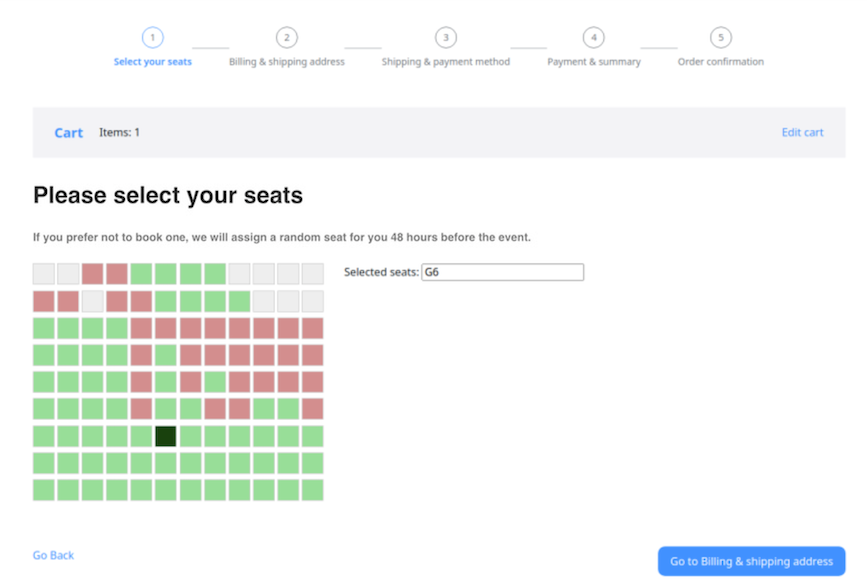
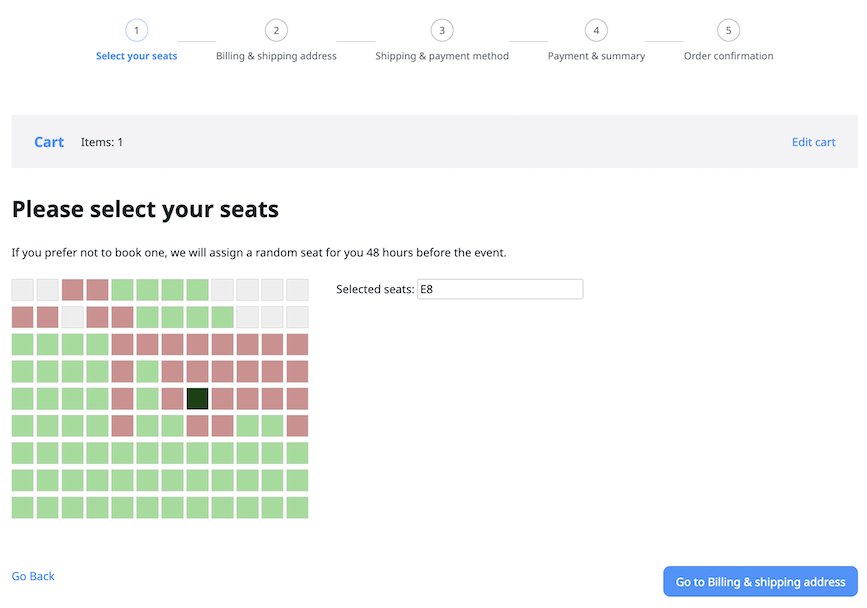
Add fixes to single page scenario

diff --git a/code_samples/front/shop/checkout/src/Form/Type/SinglePageCheckoutType.php b/code_samples/front/shop/checkout/src/Form/Type/SinglePageCheckoutType.php
@@ -1,0 +1,76 @@
+<?php
+
+declare(strict_types=1);
+
+namespace App\Form\Type;
+
+use Ibexa\Bundle\Checkout\Form\Type\AddressType;
+use Ibexa\Bundle\Checkout\Form\Type\PaymentMethodChoiceType;
+use Ibexa\Bundle\Checkout\Form\Type\ShippingMethodChoiceType;
+use Ibexa\Contracts\Cart\Value\CartInterface;
+use Symfony\Component\Form\AbstractType;
+use Symfony\Component\Form\FormBuilderInterface;
+use Symfony\Component\OptionsResolver\OptionsResolver;
+use Symfony\Component\Validator\Constraints\NotBlank;
+
+final class SinglePageCheckoutType extends AbstractType
+{
+    public function buildForm(FormBuilderInterface $builder, array $options): void
+    {
+        $builder->add(
+            'payment_method',
+            PaymentMethodChoiceType::class,
+            [
+                'constraints' => [
+                    new NotBlank(),
+                ],
+                'label' => 'Payment Method',
+            ],
+        );
+
+        $builder->add(
+            'billing_address',
+            AddressType::class,
+            [
+                'type' => 'billing',
+                'constraints' => [
+                    new NotBlank(),
+                ],
+                'label' => 'Billing Address',
+            ]
+        );
+
+        $builder->add(
+            'shipping_method',
+            ShippingMethodChoiceType::class,
+            [
+                'cart' => $options['cart'],
+                'constraints' => [
+                    new NotBlank(),
+                ],
+                'label' => 'Shipping Method',
+            ]
+        );
+
+        $builder->add(
+            'shipping_address',
+            AddressType::class,
+            [
+                'type' => 'shipping',
+                'constraints' => [
+                    new NotBlank(),
+                ],
+                'label' => 'Shipping Address',
+            ]
+        );
+    }
+
+    public function configureOptions(OptionsResolver $resolver): void
+    {
+        $resolver->setDefaults([
+            'cart' => null,
+        ]);
+
+        $resolver->setAllowedTypes('cart', ['null', CartInterface::class]);
+    }
+}

diff --git a/code_samples/front/shop/checkout/src/Controller/SinglePageCheckout.php b/code_samples/front/shop/checkout/src/Controller/SinglePageCheckout.php
@@ -4,13 +4,13 @@ declare(strict_types=1);
 
 namespace App\Controller\Checkout;
 
-use App\Form\Type\OnePageCheckoutType;
+use App\Form\Type\SinglePageCheckoutType;
 use Ibexa\Bundle\Checkout\Controller\AbstractStepController;
 use Ibexa\Contracts\Checkout\Value\CheckoutInterface;
 use Symfony\Component\HttpFoundation\Request;
 use Symfony\Component\HttpFoundation\Response;
 
-final class OnePageCheckout extends AbstractStepController
+final class SinglePageCheckout extends AbstractStepController
 {
     public function __invoke(
         Request $request,
@@ -18,7 +18,7 @@ final class OnePageCheckout extends AbstractStepController
         string $step
     ): Response {
         $form = $this->createForm(
-            OnePageCheckoutType::class,
+            SinglePageCheckoutType::class,
             $checkout->getContext()->toArray(),
             [
                 'cart' => $this->getCart($checkout->getCartIdentifier()),

diff --git a/code_samples/front/shop/checkout/src/Form/Type/SelectSeatType.php b/code_samples/front/shop/checkout/src/Form/Type/SelectSeatType.php
@@ -1,0 +1,27 @@
+<?php
+
+declare(strict_types=1);
+
+namespace App\Form\Type;
+
+use Symfony\Component\Form\AbstractType;
+use Symfony\Component\Form\Extension\Core\Type\TextType;
+use Symfony\Component\Form\FormBuilderInterface;
+use Symfony\Component\Validator\Constraints\NotBlank;
+
+final class SelectSeatType extends AbstractType
+{
+    public function buildForm(FormBuilderInterface $builder, array $options): void
+    {
+        $builder->add(
+            'selection',
+            TextType::class,
+            [
+                'constraints' => [
+                    new NotBlank(),
+                ],
+                'label' => 'Selected seats: ',
+            ]
+        );
+    }
+}

diff --git a/docs/commerce/checkout/customize_checkout.md b/docs/commerce/checkout/customize_checkout.md
@@ -75,6 +75,14 @@ after you check whether the form is valid, use the `AbstractStepController::adva
 [[= include_file('code_samples/front/shop/checkout/src/Controller/SelectSeatStepController.php') =]]
 ```
 
+#### Create a form
+
+In the `src/Form/Type` folder, create a corresponding form:
+
+``` php hl_lines="23 24"
+[[= include_file('code_samples/front/shop/checkout/src/Form/Type/SelectSeatType.php') =]]
+```
+
 ### Create Twig template
 
 You also need a Twig template to render the Symfony form.
@@ -123,7 +131,7 @@ The single form's basic advantage is simplified navigation with less clicks to c
 To create a single-form checkout, define a workflow that has two steps, `initialized` and `completed`, and one transition, from `initialized` or `completed` to `completed`.
 
 ``` yaml hl_lines="3 18 19"
-[[= include_file('code_samples/front/shop/checkout/config/packages/ibexa.yaml', 25, 27) =]] [[= include_file('code_samples/front/shop/checkout/config/packages/ibexa.yaml', 84, 103) =]] [[= include_file('code_samples/front/shop/checkout/config/packages/ibexa.yaml', 23, 24) =]]
+[[= include_file('code_samples/front/shop/checkout/config/packages/ibexa.yaml', 39, 41) =]] [[= include_file('code_samples/front/shop/checkout/config/packages/ibexa.yaml', 98, 117) =]]
 ```
 
 ### Create controller
@@ -139,6 +147,14 @@ In the `src/Controller/Checkout` folder, create a file that resembles the follow
 
 The controller can reuse fields and functions that come from the checkout component, for example, 
 after you check whether the form is valid, use the `AbstractStepController::advance` method to go to the next step of the process.
+
+#### Create a form
+
+In the `src/Form/Type` folder, create a corresponding form:
+
+``` php hl_lines="23 24"
+[[= include_file('code_samples/front/shop/checkout/src/Form/Type/SinglePageCheckoutType.php') =]]
+```
 
 ### Create Twig template
 
